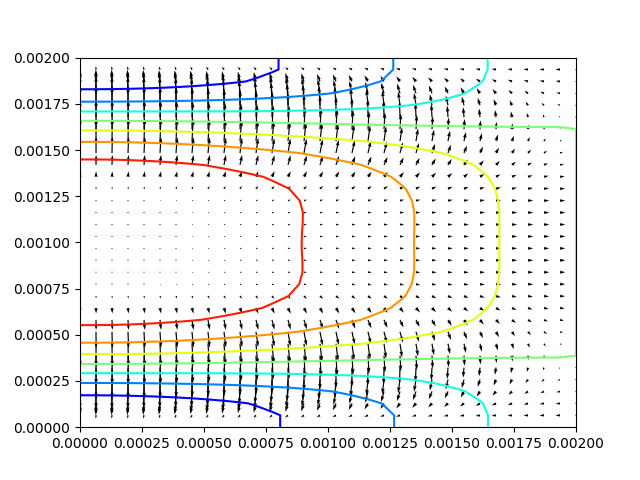
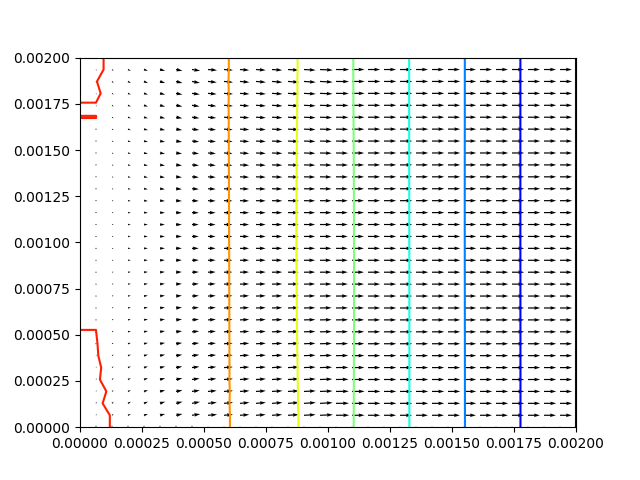
Lax-Wendroff added
2 main changes :
- First derivatives with 2dx instead of dx
- Artificial diffusion added.

Changed region(s): [[0.125, 0.125, 0.9062, 0.9062]]

diff --git a/fluid_solver.py b/fluid_solver.py
@@ -24,9 +24,9 @@ def Dx(M,dx,Bound_left = 0):
             #ddxM[:,j] = (Bound_right-2*M[:,j]+M[:,j-1])/dx**2 ## What would be without the bc
             dxM[:,j] = 0 ## Free wall, derivative 0
         elif j == 0:
-            dxM[:,j] = (M[:,j+1]-Bound_left)/dx
+            dxM[:,j] = (M[:,j+1]-Bound_left)/dx/2
         else:
-            dxM[:,j] = (M[:,j+1]-M[:,j-1])/dx
+            dxM[:,j] = (M[:,j+1]-M[:,j-1])/dx/2
     return dxM
 
 def Dy(M,dy,Bound_up,Bound_down):
@@ -34,11 +34,11 @@ def Dy(M,dy,Bound_up,Bound_down):
     dyM = np.zeros([I,J])
     for i in range(I):
         if i == I-1:
-            dyM[i,:] = (Bound_down-M[i-1,:])/dy
+            dyM[i,:] = (Bound_down-M[i-1,:])/dy/2
         elif i == 0:
-            dyM[i,:] = (M[i+1,:]-Bound_up)/dy
+            dyM[i,:] = (M[i+1,:]-Bound_up)/dy/2
         else:
-            dyM[i,:] = (M[i+1,:]-M[i-1,:])/dy
+            dyM[i,:] = (M[i+1,:]-M[i-1,:])/dy/2
     return dyM
 
 def Dx_nobc(M,dx):
@@ -50,7 +50,7 @@ def Dx_nobc(M,dx):
         elif j == 0:
             dxM[:,j] = 0
         else:
-            dxM[:,j] = (M[:,j+1]-M[:,j-1])/dx
+            dxM[:,j] = (M[:,j+1]-M[:,j-1])/dx/2
     return dxM
 
 def Dy_nobc(M,dy,Bound_right = 0):
@@ -58,11 +58,11 @@ def Dy_nobc(M,dy,Bound_right = 0):
     dyM = np.zeros([I,J])
     for i in range(I):
         if i == I-1:
-            dyM[i,:] = (Bound_right-M[i-1,:])/dy
+            dyM[i,:] = (Bound_right-M[i-1,:])/dy/2
         elif i == 0:
             dyM[i,:] = 0
         else:
-            dyM[i,:] = (M[i+1,:]-M[i-1,:])/dy
+            dyM[i,:] = (M[i+1,:]-M[i-1,:])/dy/2
     return dyM
 
 
@@ -178,16 +178,22 @@ class pde_fluid_solver():
         bc_y_down = self.bc_uy.down
         ## Second step simulation !!!
         for k in tqdm(range(1,N)):
-            ## Step 1 calculate u_star
-            ux_s  = ux[:,:,k-1]#-dt*(Dx(ux[:,:,k-1]**2,dx)+Dy(ux[:,:,k-1]*uy[:,:,k-1],dy,Bound_down=bc_x_down*bc_y_down,Bound_up=bc_x_up*bc_y_up))
-            uy_s = uy[:,:,k-1]#-dt*(Dx(ux[:,:,k-1]*uy[:,:,k-1],dx)+Dy(uy[:,:,k-1]**2,dy,Bound_down=bc_y_down**2,Bound_up=bc_y_up**2))
+            ## Step 1 ADVECTION
+            ux_s  = ux[:,:,k-1] -dt*(ux[:,:,k-1]*Dx(ux[:,:,k-1],dx)+uy[:,:,k-1]*Dy(ux[:,:,k-1],dy,Bound_down=bc_x_down*bc_y_down,Bound_up=bc_x_up*bc_y_up))
+            uy_s = uy[:,:,k-1] - dt*(ux[:,:,k-1]*Dx(ux[:,:,k-1],dx)+uy[:,:,k-1]*Dy(uy[:,:,k-1],dy,Bound_down=bc_y_down**2,Bound_up=bc_y_up**2))
 
-            ## Step 2 calculate u_star_star
-            ux_ss = ux_s+dt*visc*(DDx(ux_s,dx)+DDy(ux_s,dy))
-            uy_ss = uy_s+dt*visc*(DDx(ux_s,dx)+DDy(uy_s,dy))
+            ## ARTIFICIAL DIFFUSION, order 2 in advection
+            ux_s = ux_s + 0.5*dt**2*(ux[:,:,k-1]**2*DDx(ux[:,:,k-1],dx)+uy[:,:,k-1]**2*DDy(ux[:,:,k-1],dy))
+            ux_s = ux_s + 0.5*dt**2*(ux[:,:,k-1]**2*DDx(uy[:,:,k-1],dx)+uy[:,:,k-1]**2*DDy(uy[:,:,k-1],dy))
 
-            ## Step 3 impose incompresibility 
+            ## Step 2 DIFFUSION
+            ux_ss = ux_s + dt*visc*(DDx(ux_s,dx)+DDy(ux_s,dy))
+            uy_ss = uy_s + dt*visc*(DDx(ux_s,dx)+DDy(uy_s,dy))
+
+            ## Step 3 IMPOSE COMPRESSIBILITY 
             p[:,:,k]  = self.presure_solver(p[:,:,k-1],dens*(Dx(ux_ss,dx)+Dy(uy_ss,dy,Bound_down=bc_y_down,Bound_up=bc_y_up)/dt),max_reps=repeat_jac,precision=precision_jac)
+
+            ##Step 4, ADVANCE TIME
             ux[:,:,k] = ux_ss-dt*dens**-1*Dx_nobc(p[:,:,k],dx)
             uy[:,:,k] = uy_ss-dt*dens**-1*Dy_nobc(p[:,:,k],dy)
 

diff --git a/main.py b/main.py
@@ -4,12 +4,12 @@ import os
 
 from fluid_solver import *
 
-u_slot = 1
-u_coflow = 0.5
+u_slot = 10
+u_coflow = 5
 N_x,N_y = 32,32
-N_time = 25
+N_time = 50
 Lx,Ly = 2e-3,2e-3
-dt = 1e-6
+dt = 1e-8
 
 [X,Y] = np.meshgrid(np.linspace(0,Lx,N_x),np.linspace(0,Lx,N_y))
 up_bc_uy = np.ones(N_x)
@@ -41,7 +41,7 @@ u0x[-1,:]=down_bc_ux
 p0 = np.zeros([N_y,N_x])
 
 
-viscosity,density = 15e-6,1.1614
+viscosity,density = 15e-4,1.1614
 main_fluid = fluid_initial_condition(u_0x = u0x,
                 u_0y = u0y,
                 p_0 = p0,
@@ -55,7 +55,7 @@ bc_uy = boundary_condition(up_bc_uy,down_bc_uy)
 solver = pde_fluid_solver(main_fluid,bc_ux,bc_uy,N_time,dt,Lx,Ly)
 
 #solver.presure_solver(np.ones([N_space,N_space]),precision = 0.05,max_reps = 1000)
-solver.solve_navier_stokes(N_time,precision_jac = 0.0005,repeat_jac = 2000)
+solver.solve_navier_stokes(N_time,precision_jac = 0.005,repeat_jac = 2000)
 
 
 # Change this to the path on your oun laptop
